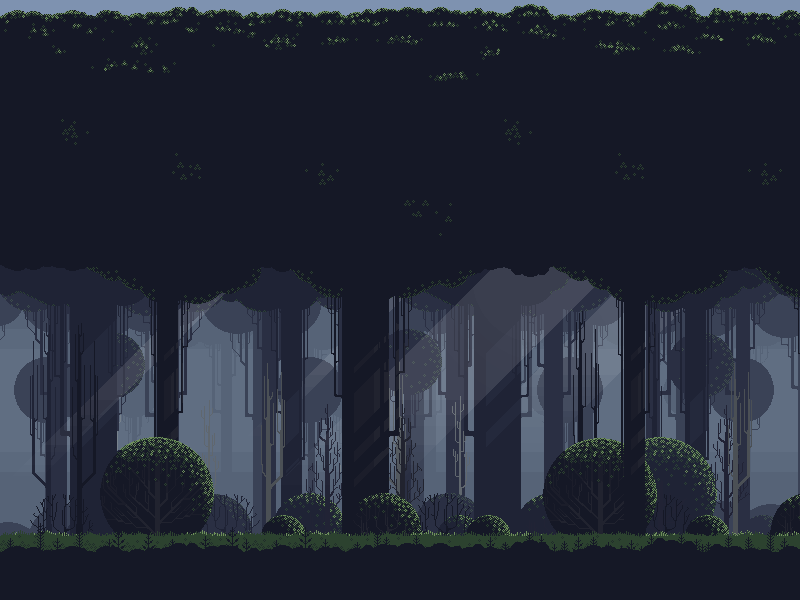
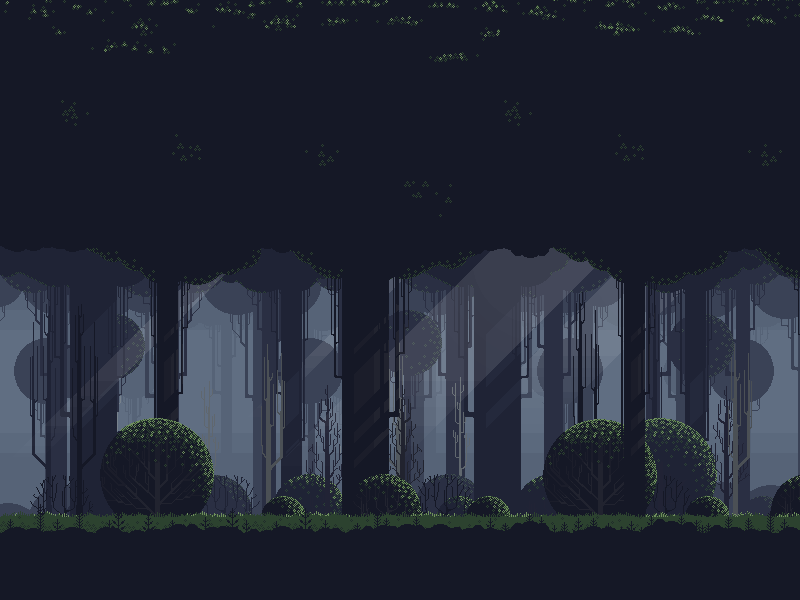
Created new forest arena

diff --git a/src/game/Game.java b/src/game/Game.java
@@ -1,5 +1,6 @@
 package game;
 
+import arenas.Forest;
 import arenas.Royal;
 import arenas.Void;
 import city.cs.engine.DebugViewer;
@@ -15,7 +16,7 @@ public class Game {
 
     /** Initialise a new game. */
     public Game() {
-        arena = new Void(); // Game world
+        arena = new Forest(); // Game world
 
         view = new GameView(arena, 800, 600); // Game view
 
@@ -28,7 +29,7 @@ public class Game {
         frame.setVisible(true);
 
         // Debug tools
-//        view.setGridResolution(GRID_RES);
+        view.setGridResolution(GRID_RES);
 //        new DebugViewer(arena, view.getWidth(), view.getHeight());
 
         arena.start();

diff --git a/src/arenas/Forest.java b/src/arenas/Forest.java
@@ -1,0 +1,17 @@
+package arenas;
+
+import game.BattleArena;
+import world.Tile;
+
+public class Forest extends BattleArena {
+    public Forest() {
+        super(0, 0, 0, 0);
+
+        setBackground("assets/background/forest/forest_resized.png");
+    }
+
+    @Override
+    public void populate() {
+        addTile(Tile.TOP, -19, -12);
+    }
+}

diff --git a/src/game/BattleArena.java b/src/game/BattleArena.java
@@ -46,6 +46,9 @@ public abstract class BattleArena extends World {
         // Player 2
         player2 = new Player(this, 2, new Skeleton(), new Vec2(x2, y2));
         player2.setKeyBindings(new KeyBindings());
+
+        // Fill the world with tiles
+        populate();
     }
 
     public Color getBgColour() {

diff --git a/src/arenas/Void.java b/src/arenas/Void.java
@@ -15,9 +15,6 @@ public class Void extends BattleArena {
 
         // Death barrier
         setDeathBarrier(this, -20);
-
-        // Populate world with tiles
-        populate();
     }
 
     @Override
